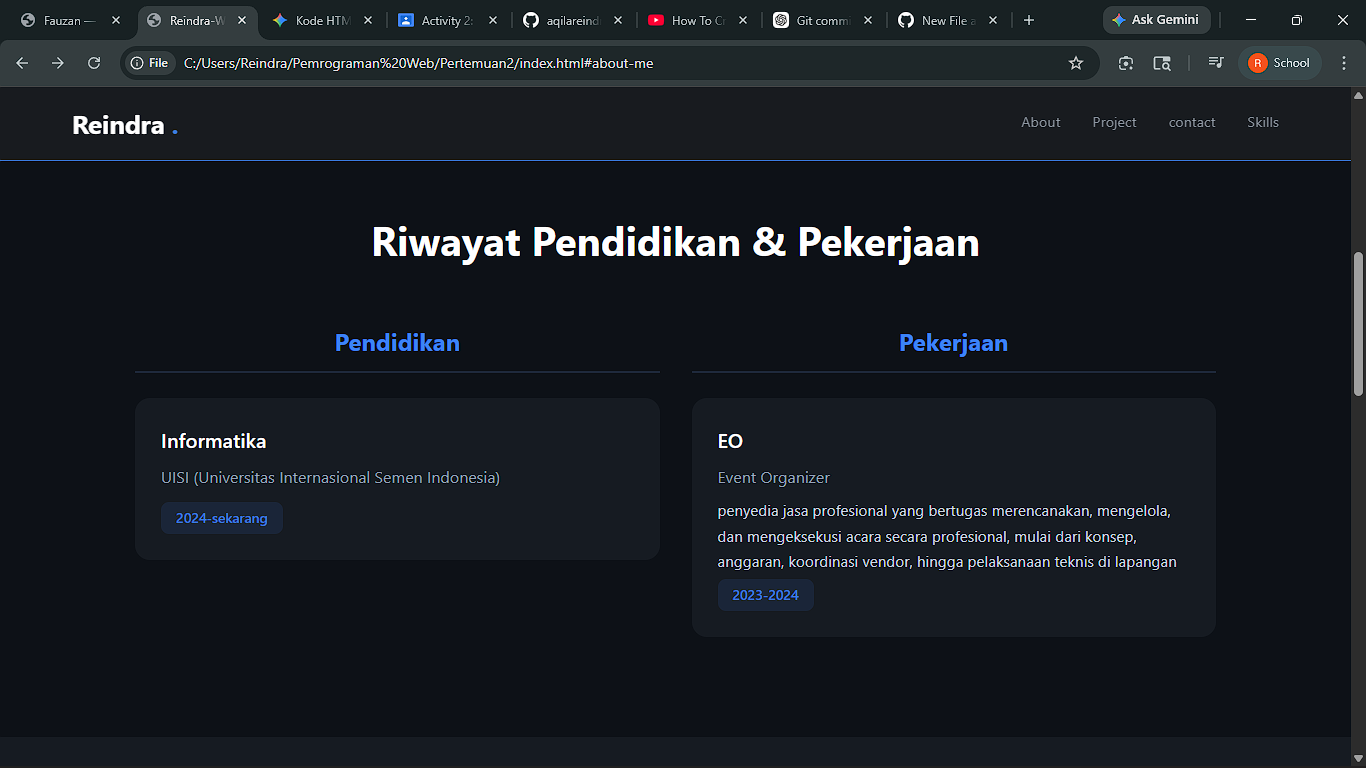
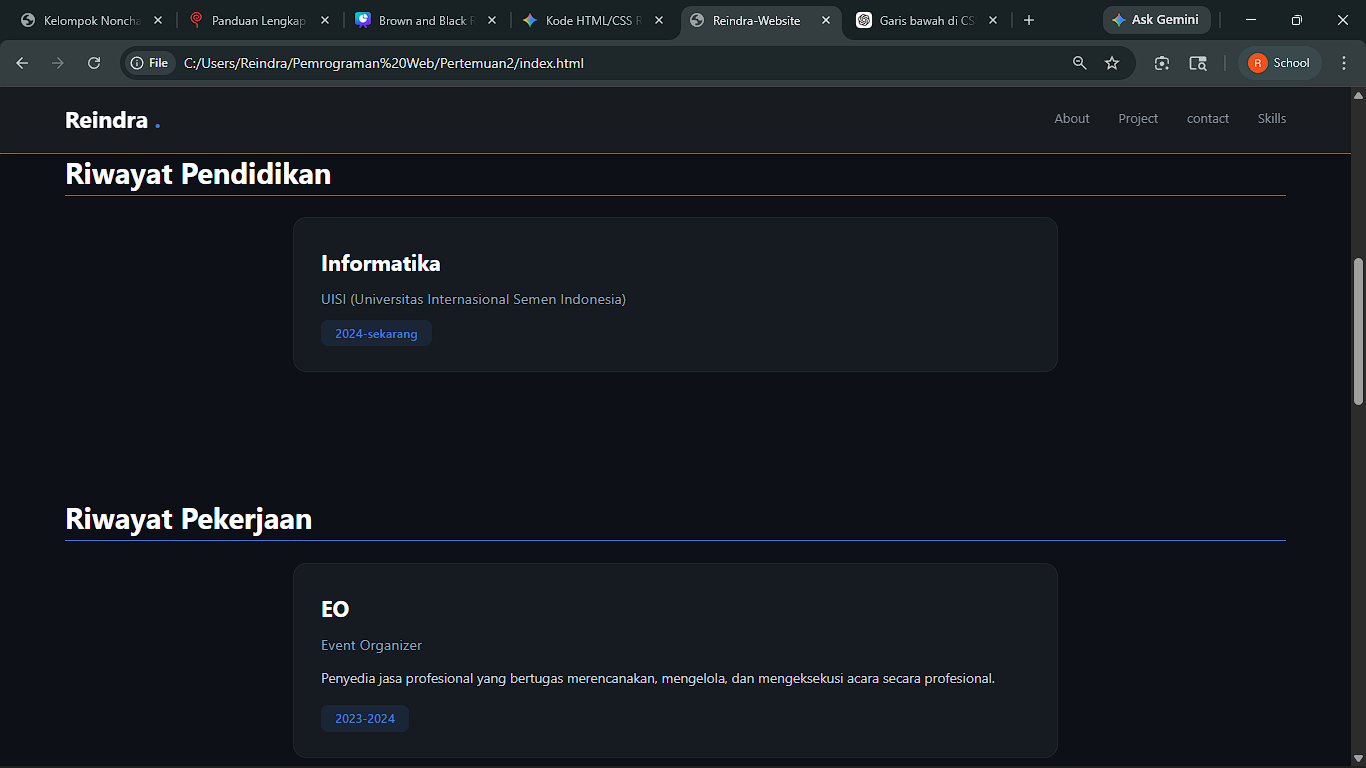
update project + add screenshot

diff --git a/index.html b/index.html
@@ -41,36 +41,41 @@
         </div>
       </section>
 
-      <section id="riwayat">
-        <div class="judul">
-          <h2>Riwayat Pendidikan & Pekerjaan</h2>
-
-          <div class="riwayat-wrapper">
-            <div class="kolom-riwayat">
-              <h2>Pendidikan</h2>
-              <div class="item-riwayat">
-                <div class="konten-riwayat">
-                  <h3>Informatika</h3>
-                  <p>UISI (Universitas Internasional Semen Indonesia)</p>
-                  <span class="tanggal">2024-sekarang</span>
-                </div>
-              </div>
-            </div>
-
-            <div class="kolom-riwayat">
-              <h2>Pekerjaan</h2>
-              <div class="item-riwayat">
-                <div class="konten-riwayat">
-                  <h3>EO</h3>
-                  <p>Event Organizer</p>
-                  <span class="deskripsi"> penyedia jasa profesional yang bertugas merencanakan, mengelola, dan mengeksekusi acara secara profesional, mulai dari konsep, anggaran, koordinasi vendor, hingga pelaksanaan teknis di lapangan</span>
-                  <span class="tanggal">2023-2024</span>
-                </div>
-              </div>
-            </div>
+      <!-- Riwayat -->
+      <section id="pendidikan" class="isi-konten">
+  <div class="judul">
+    <h2>Riwayat Pendidikan</h2>
+    <div class="wadah-item">
+      <div class="item-riwayat">
+        <div class="konten-riwayat">
+          <h3>Informatika</h3>
+          <p>UISI (Universitas Internasional Semen Indonesia)</p>
+          <div class="wadah-tanggal">
+            <span class="tanggal">2024-sekarang</span>
           </div>
         </div>
-      </section>
+      </div>
+      </div>
+  </div>
+</section>
+
+<section id="pekerjaan" class="isi-konten">
+  <div class="judul">
+    <h2>Riwayat Pekerjaan</h2>
+    <div class="wadah-item">
+      <div class="item-riwayat">
+        <div class="konten-riwayat">
+          <h3>EO</h3>
+          <p>Event Organizer</p>
+          <p class="deskripsi-teks">Penyedia jasa profesional yang bertugas merencanakan, mengelola, dan mengeksekusi acara secara profesional.</p>
+          <div class="wadah-tanggal">
+            <span class="tanggal">2023-2024</span>
+          </div>
+        </div>
+      </div>
+    </div>
+  </div>
+</section>
       
 
       <!-- Project -->

diff --git a/style.css b/style.css
@@ -145,48 +145,40 @@ nav a:hover {
 }
 
 /* Riwayat */
-#riwayat {
-    padding: 80px 10%;
-    background-color: #0d1117;
-    color: white;
+.isi-konten {
+    padding: 60px 4.5rem;
+    background-color: #0d1117; 
+    
 }
 
-.judul h2{
-    text-align: center;
-    font-size: 2.5rem;
-    margin-bottom: 50px;
+.isi-konten h2 {
+    font-size: 2rem;
     font-weight: 700;
+    color: #ffffff;
+    margin-bottom: 0.5rem;
+    border-bottom: 2px solid #3a7ce0;
 }
 
-.riwayat-wrapper {
+.wadah-item {
+    padding: 1rem;
     display: flex;
-    gap: 2rem;
-    flex-wrap: wrap;
-}
-
-.kolom-riwayat {
-    flex: 1;
-    min-width: 300px;
-}
-
-.kolom-riwayat h2 {
-    font-size: 1.5rem;
-    margin-bottom: 25px;
-    color: #3b82f6;
-    border-bottom: 2px solid #1e293b;
-    padding-bottom: 10px;
+    flex-direction: column;
+    gap: 25px;
+    max-width: 850px; 
+    margin: 0 auto;   
+    text-align: left;
 }
 
 .item-riwayat {
-    margin-bottom: 20px;
+    width: 100%;
 }
 
 .konten-riwayat {
-    background: #161b22 ;
-    padding: 25px;
+    background: #161b22; 
+    padding: 30px;
     border-radius: 15px;
-    border: 1px solid transparent;
-    transition: all 0.3 ease;
+    border: 1px solid #21262d;
+    transition: all 0.3s ease;
 }
 
 .konten-riwayat:hover {
@@ -196,33 +188,35 @@ nav a:hover {
 }
 
 .konten-riwayat h3 {
-    margin: 0;
-    font-size: 1.25rem;
-    font-weight: 600;
+    font-size: 1.5rem;
+    color: #ffffff;
+    margin-bottom: 8px;
 }
 
 .konten-riwayat p {
     color: #94a3b8;
-    margin: 8px 0;
-    font-size: 1rem;
+    margin-bottom: 12px;
+}
+
+.deskripsi-teks {
+    font-size: 0.95rem;
+    color: #c9d1d9 !important;
+    line-height: 1.6;
+    margin-bottom: 20px !important;
+}
+
+
+.wadah-tanggal {
+    display: inline-block;
 }
 
 .tanggal {
-    display: inline-block;
-    background: rgba(59, 130, 246, 0.1);
+    background: rgba(58, 124, 224, 0.1);
     color: #3a7ce0;
-    padding: 5px 15px;
+    padding: 6px 16px;
     border-radius: 8px;
     font-size: 0.85rem;
     font-weight: 600;
-    margin-top: 5px;
-}
-
-.deskripsi {
-    margin-top: 15px;
-    font-size: 0.95rem;
-    color: #cbd5e1;
-    line-height: 1.6;
 }
 
 
